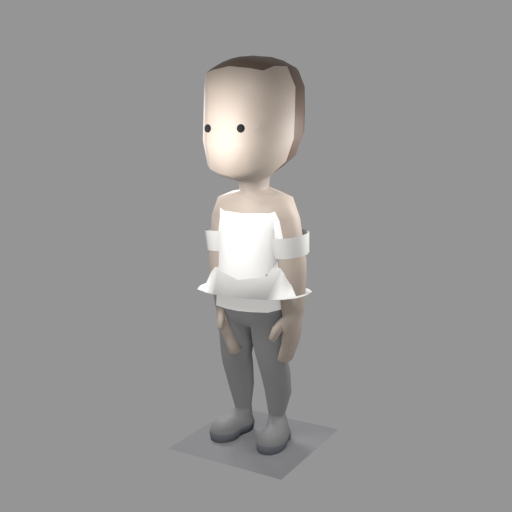
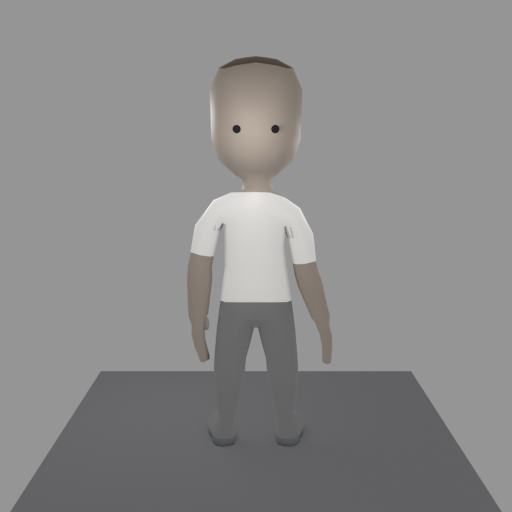
art(researcher): idle pose re-render in tee and grey trousers (Q478)
Re-renders the researcher hero idle pose in a tee and grey trousers on the #969696 preview backdrop.

Changed region(s): [[0.0, 0.0938, 1.0, 1.0]]

diff --git a/tools/art/blender/render_staff_researcher_idle_from_turnaround.py b/tools/art/blender/render_staff_researcher_idle_from_turnaround.py
@@ -1,0 +1,58 @@
+#!/usr/bin/env python3
+"""Idle hero PNG from turnaround front tile (Q478 — same rig/materials as turnaround)."""
+from __future__ import annotations
+
+import os
+import sys
+from pathlib import Path
+
+import bpy
+
+sys.path.insert(0, str(Path(__file__).resolve().parent))
+import blender_common as bc  # noqa: E402
+from kenney_hero_walk_strip import (  # noqa: E402
+    apply_idle_arm_blend,
+    apply_walk_materials_to_hero,
+    build_researcher_walk_scene,
+    configure_preview_env,
+    ensure_locomotion_action,
+    researcher_lab_coat_preview_tweak,
+)
+from render_kenney_staff_turnaround import (  # noqa: E402
+    _effective_cam_yaw,
+    _pose_idle,
+    _render_tile,
+)
+
+PREVIEW = Path(__file__).resolve().parents[3] / "docs/art/previews"
+ASSET_ID = "staff-researcher-idle"
+
+
+def main() -> int:
+    configure_preview_env(ASSET_ID)
+    os.environ.pop("STAFF_PREVIEW_SKIP_MASK", None)
+    os.environ.pop("STAFF_PREVIEW_LOCK_CAMERA", None)
+    scene_data = build_researcher_walk_scene()
+    ensure_locomotion_action(scene_data.arm, scene_data.action_name)
+    apply_walk_materials_to_hero(scene_data.render_meshes, ASSET_ID)
+    researcher_lab_coat_preview_tweak(scene_data.render_meshes)
+    apply_idle_arm_blend(
+        scene_data.arm, scene_data.idle_arm_quats, scene_data.bind_arm_quats
+    )
+    bpy.context.view_layer.update()
+    out = PREVIEW / f"{ASSET_ID}.png"
+    yaw = _effective_cam_yaw(ASSET_ID, 0.0)
+    _render_tile(
+        scene_data.render_meshes,
+        ASSET_ID,
+        yaw,
+        out,
+        walk_pose=False,
+        scene_data=scene_data,
+    )
+    print(f"OK idle_hero_from_turnaround {out.relative_to(PREVIEW.parents[2])} yaw={yaw}")
+    return 0
+
+
+if __name__ == "__main__":
+    raise SystemExit(main())
